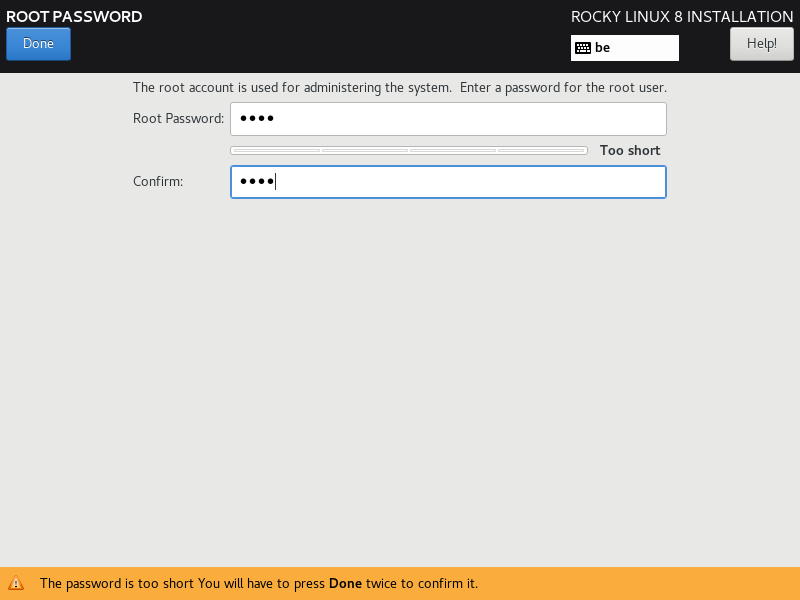
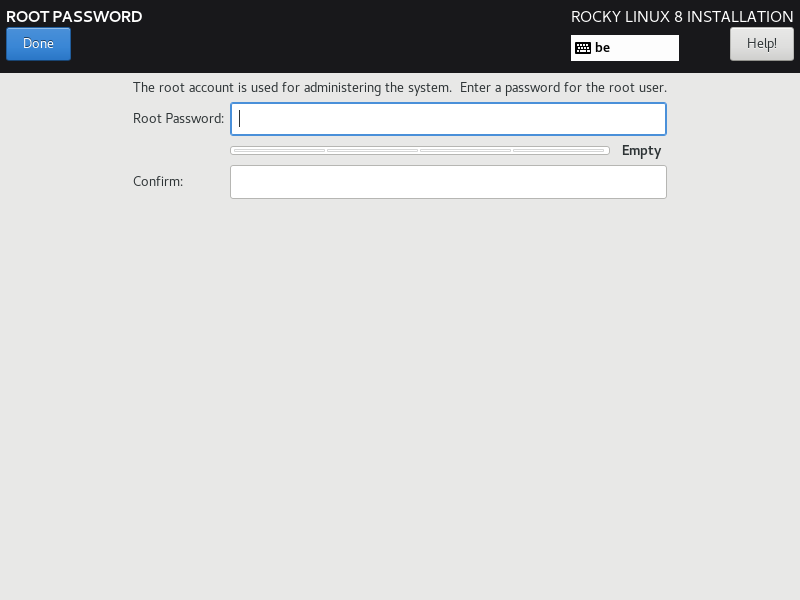
Deployed 726bb1d with MkDocs version: 1.2.3

Changed region(s): [[0.0, 0.93, 1.0, 1.0], [0.2812, 0.15, 0.8438, 0.33]]

diff --git a/tutorials/virtualbox-windows/install-os/index.html b/tutorials/virtualbox-windows/install-os/index.html
@@ -949,6 +949,7 @@
 <p><kbd> <a href="../../../assets/images/virtualbox-windows/install-os/debian/hostname.png"><img alt="Installation operating system" src="../../../assets/images/virtualbox-windows/install-os/debian/hostname.png" title="Debian 11.X" /></a> </kbd></p>
 </div>
 <div class="tabbed-block">
+<p>Leave the root password empty.</p>
 <p><kbd> <a href="../../../assets/images/virtualbox-windows/install-os/debian/root-password.png"><img alt="Installation operating system" src="../../../assets/images/virtualbox-windows/install-os/debian/root-password.png" title="Debian 11.X" /></a> </kbd></p>
 </div>
 <div class="tabbed-block">
@@ -1097,9 +1098,11 @@
 <div class="tabbed-set tabbed-alternate" data-tabs="11:8"><input checked="checked" id="__tabbed_11_1" name="__tabbed_11" type="radio" /><input id="__tabbed_11_2" name="__tabbed_11" type="radio" /><input id="__tabbed_11_3" name="__tabbed_11" type="radio" /><input id="__tabbed_11_4" name="__tabbed_11" type="radio" /><input id="__tabbed_11_5" name="__tabbed_11" type="radio" /><input id="__tabbed_11_6" name="__tabbed_11" type="radio" /><input id="__tabbed_11_7" name="__tabbed_11" type="radio" /><input id="__tabbed_11_8" name="__tabbed_11" type="radio" /><div class="tabbed-labels"><label for="__tabbed_11_1">Step17</label><label for="__tabbed_11_2">Step18</label><label for="__tabbed_11_3">Step19</label><label for="__tabbed_11_4">Step20</label><label for="__tabbed_11_5">Step21</label><label for="__tabbed_11_6">Step22</label><label for="__tabbed_11_7">Step23</label><label for="__tabbed_11_8">Step24</label></div>
 <div class="tabbed-content">
 <div class="tabbed-block">
+<p>Leave the root password blank.</p>
 <p><kbd> <a href="../../../assets/images/virtualbox-windows/install-os/rocky/root-password.png"><img alt="Installation operating system" src="../../../assets/images/virtualbox-windows/install-os/rocky/root-password.png" title="Rocky Linux 8.X" /></a> </kbd></p>
 </div>
 <div class="tabbed-block">
+<p>Scroll down and select User Creation.</p>
 <p><kbd> <a href="../../../assets/images/virtualbox-windows/install-os/rocky/user-creation-field.png"><img alt="Installation operating system" src="../../../assets/images/virtualbox-windows/install-os/rocky/user-creation-field.png" title="Rocky Linux 8.X" /></a> </kbd></p>
 </div>
 <div class="tabbed-block">

diff --git a/tutorials/virtualbox-windows/configure-os/index.html b/tutorials/virtualbox-windows/configure-os/index.html
@@ -964,7 +964,7 @@
 <div class="tabbed-set tabbed-alternate" data-tabs="6:6"><input checked="checked" id="__tabbed_6_1" name="__tabbed_6" type="radio" /><input id="__tabbed_6_2" name="__tabbed_6" type="radio" /><input id="__tabbed_6_3" name="__tabbed_6" type="radio" /><input id="__tabbed_6_4" name="__tabbed_6" type="radio" /><input id="__tabbed_6_5" name="__tabbed_6" type="radio" /><input id="__tabbed_6_6" name="__tabbed_6" type="radio" /><div class="tabbed-labels"><label for="__tabbed_6_1">Step1</label><label for="__tabbed_6_2">Step2</label><label for="__tabbed_6_3">Step3</label><label for="__tabbed_6_4">Step4</label><label for="__tabbed_6_5">Step5</label><label for="__tabbed_6_6">Step6</label></div>
 <div class="tabbed-content">
 <div class="tabbed-block">
-<p><kbd> <a href="../../../assets/images/virtualbox-windows/configure-os/debian/login-guru2-become-root.png"><img alt="Configuration operating system" src="../../../assets/images/virtualbox-windows/configure-os/debian/login-guru2-become-root.png" title="Debian 11.X" /></a> </kbd></p>
+<p><kbd> <a href="../../../assets/images/virtualbox-windows/configure-os/debian/login-guru2.png"><img alt="Configuration operating system" src="../../../assets/images/virtualbox-windows/configure-os/debian/login-guru2.png" title="Debian 11.X" /></a> </kbd></p>
 </div>
 <div class="tabbed-block">
 <p><kbd> <a href="../../../assets/images/virtualbox-windows/configure-os/debian/check-nic-name-nano-etc-network-interfaces.png"><img alt="Configuration operating system" src="../../../assets/images/virtualbox-windows/configure-os/debian/check-nic-name-nano-etc-network-interfaces.png" title="Debian 11.X" /></a> </kbd></p>

diff --git a/tutorials/virtualbox-windows/configure-vm/index.html b/tutorials/virtualbox-windows/configure-vm/index.html
@@ -870,6 +870,7 @@
 <div class="tabbed-set tabbed-alternate" data-tabs="6:3"><input checked="checked" id="__tabbed_6_1" name="__tabbed_6" type="radio" /><input id="__tabbed_6_2" name="__tabbed_6" type="radio" /><input id="__tabbed_6_3" name="__tabbed_6" type="radio" /><div class="tabbed-labels"><label for="__tabbed_6_1">Linux Mint 20.X</label><label for="__tabbed_6_2">Debian 11.X</label><label for="__tabbed_6_3">Rocky Linux 8.X</label></div>
 <div class="tabbed-content">
 <div class="tabbed-block">
+<p>Make sure you enable "3D Acceleration".</p>
 <p><kbd> <a href="../../../assets/images/virtualbox-windows/configure-vm/mint/video-memory.png"><img alt="Configuration virtual machine" src="../../../assets/images/virtualbox-windows/configure-vm/mint/video-memory.png" title="Linux Mint 20.X" /></a> </kbd></p>
 </div>
 <div class="tabbed-block">

diff --git a/tutorials/virtualbox-windows/pre-configure-os/index.html b/tutorials/virtualbox-windows/pre-configure-os/index.html
@@ -719,6 +719,7 @@
 <p><kbd> <a href="../../../assets/images/virtualbox-windows/pre-configure-os/mint/guest-additions-sudo-adduser-vboxsf.png"><img alt="Pre-configuration operating system" src="../../../assets/images/virtualbox-windows/pre-configure-os/mint/guest-additions-sudo-adduser-vboxsf.png" title="Linux Mint 20.X" /></a> </kbd></p>
 </div>
 <div class="tabbed-block">
+<p>The shared folder will only be accessible after a loggoff and logon.</p>
 <p><kbd> <a href="../../../assets/images/virtualbox-windows/pre-configure-os/mint/guest-additions-sf-downloads.png"><img alt="Pre-configuration operating system" src="../../../assets/images/virtualbox-windows/pre-configure-os/mint/guest-additions-sf-downloads.png" title="Linux Mint 20.X" /></a> </kbd></p>
 </div>
 </div>
